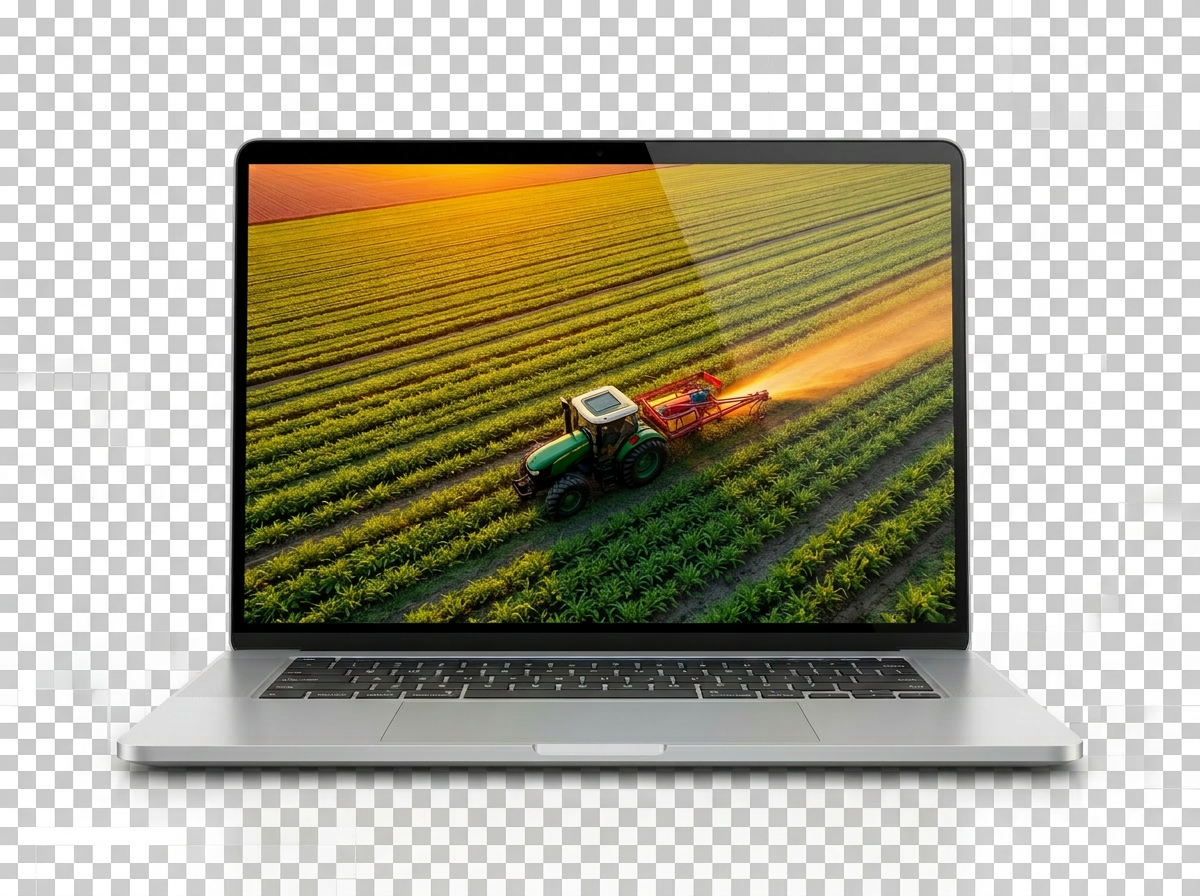
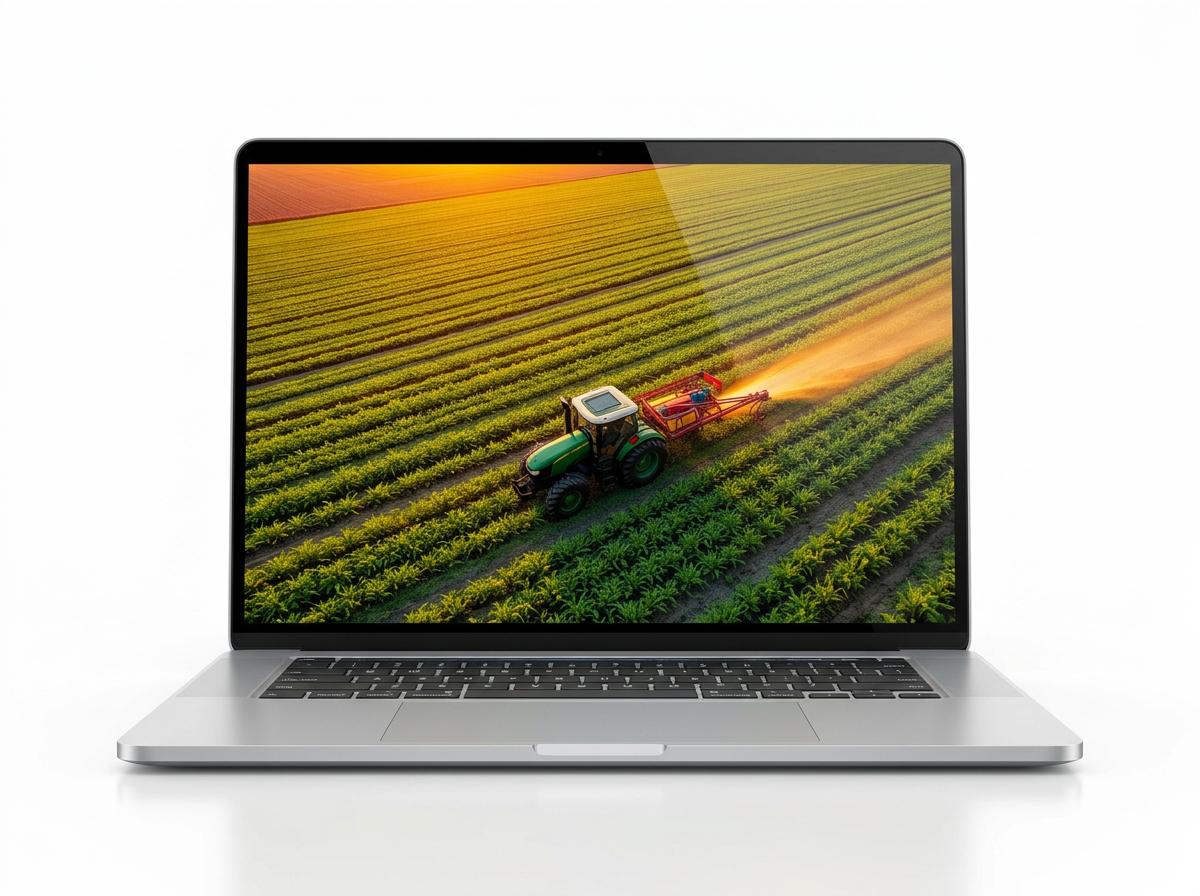
Reverted to commit e92f804a6015a95604958b65ea8253c702a013ca

diff --git a/src/pages/CaseAxiaAgroPortal.tsx b/src/pages/CaseAxiaAgroPortal.tsx
@@ -85,9 +85,11 @@ const CaseAxiaAgroPortal = () => {
             <div className="flex justify-center lg:justify-end">
               <img
                 src={portalMockup}
-                alt="Mockup laptop com lavoura e caminhão regando plantação"
+                alt="Lavoura com caminhão regando plantação"
                 loading="lazy"
-                className="h-auto w-[460px] max-w-full"
+                width={1024}
+                height={768}
+                className="h-auto w-[420px] max-w-full rounded-2xl shadow-elevated"
               />
             </div>
           </div>
